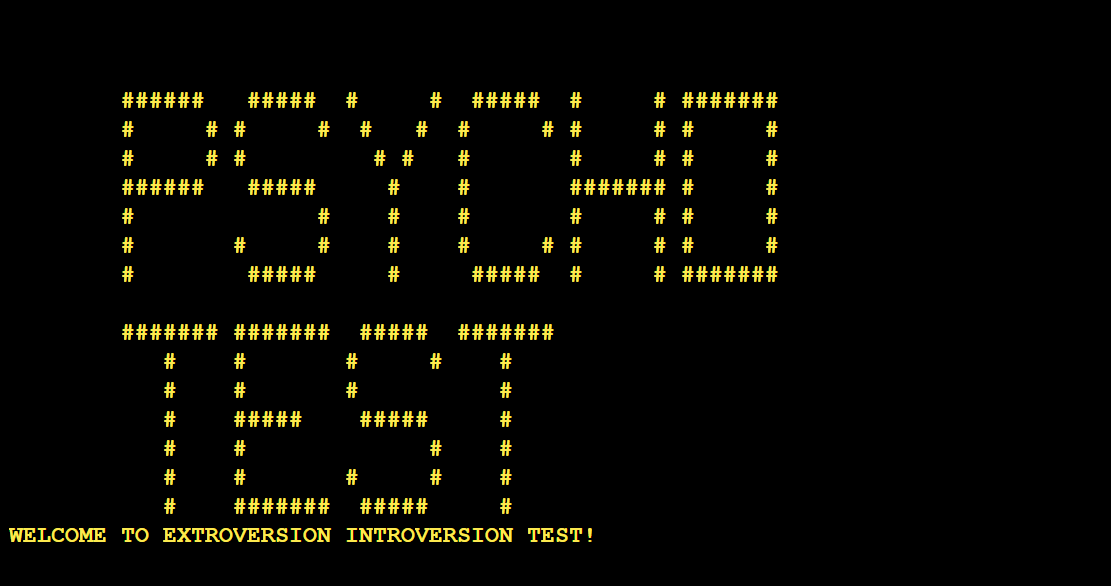
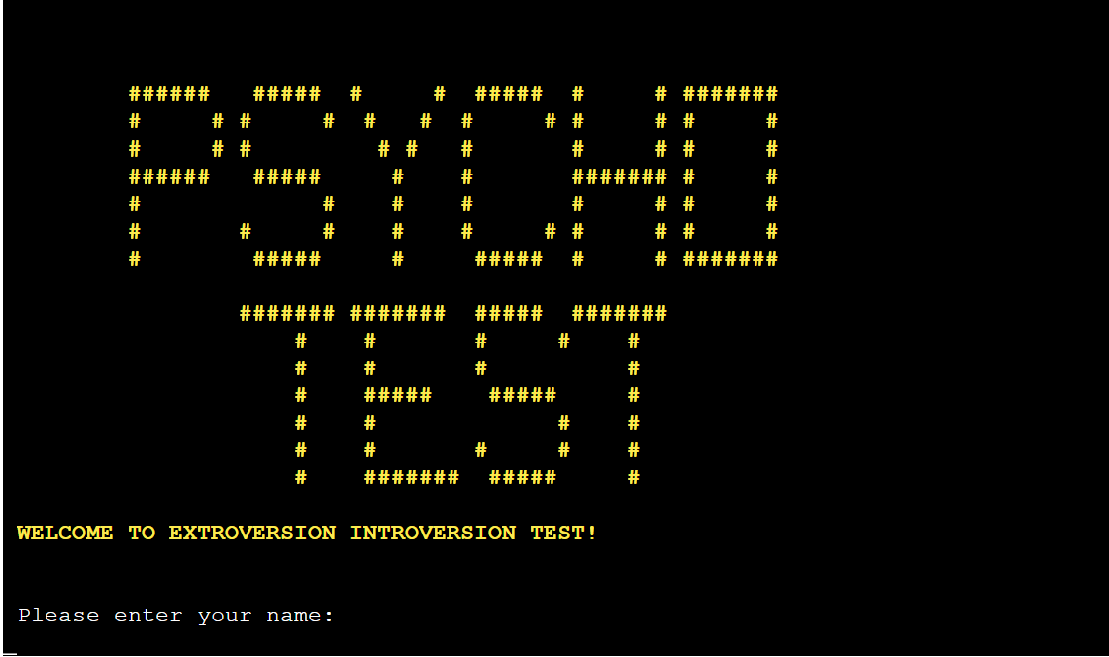
docs: edit readme technologies used section

diff --git a/README.md b/README.md
@@ -21,7 +21,8 @@
     - <a href="#database">Writing to Database</a>
     - <a href="#class1">Questions_Answers Class</a>
     - <a href="#class2">User Class</a>
-- <a href="#technologies">Technologies Used</a>
+- <a href="#technologies">Technologies and Libraries Used</a>
+    - <a href="#google">Google API Setup</a>
 - <a href="#testing">Testing</a>
     - <a href="#validation">PEP8 Validation</a>
     - <a href="#manual_testing">Manual Testing</a>
@@ -67,6 +68,7 @@ The below flowchart shows the order in which actions are taken and how the progr
 ## <div id="features">Features</div>
 ### <div id="message">Introductory Message</div>
 When the user runs the system, they will be greeted with a logo and a welcome message.
+![screenshot](documentation/screenshot.png)
 
 ### <div id="validation">Data Validation</div>
 ![](documentation/screenshot_test2.png)
@@ -86,6 +88,10 @@ If user reaches -4 or 4 points, the program switches to specific questions from 
 ### <div id="result">Test Result</div>
 ![](documentation/result.png)
 The final result of the test is determined by the score: if the score is less than -3, then the result is an introverted user. If the score is greater than 3, then the result is the extrovert user. If the score is between -3 and 3, the user is ambivert.
+
+At the end of the test, or when the user presses Q (quit), a banner appears "Thank you".
+![](documentation/screenshot_test4.png)
+
 
 ### <div id="colours">Colours</div>
 I wanted to achieve a bright, eye-catching look, stick to the color theme as much as possible, and not use too many colors.
@@ -116,20 +122,84 @@ Each test table consists of questions and answer keys.
     - question_used: a flag that indicates whether the question has already been used in the test
 
 ### <div id="class2">User Class</div>
-- A User Class was created to store the username, email, and flag for the returning user.
+- A User Class was created to contain the username, email, and flag for the returning user.
 - A User Class has the following attributes:
     - name: username
     - emails: user email
     - exists: a flag indicating if the user has already passed the test
 
-## <div id="technologies">Technologies Used</div>
+## <div id="technologies">Technologies and Libraries Used</div>
 - The application was developed with Python
     - Python Packages:
+        - [gspread](https://docs.gspread.org/en/v5.9.0/) allows communication with Google Sheets.
         - [Colorama](https://pypi.org/project/colorama/) to print colored terminal text
+        - sys.stdout.flush() used to temporarily store data in a buffer memory before it gets written to terminal
         - Platform module and OS Module to check the system/OS name and interact with the underlying operating system
 - [Heroku](https://www.heroku.com/platform) was used for deployment
 - [Flowchart Maker and Online Diagram Software](https://app.diagrams.net/) was used to generate the flowchart
+- [Google Worksheet](https://www.google.co.uk/sheets/about/) used as database.
 - [VS Code](https://code.visualstudio.com/) was used for development
+
+### <div id="google">Google API Setup</div>
+The value of using the Google API Sheets library is that it's built on HTTP and JSON, so any standard HTTP client can send requests to it and parse the responses. In other words, our project can feed data to the Google Sheet using an API and we can see the result of that data in a format suitable for Google Sheets.
+
+The reason for using Google Sheets for this project is to access the questionnaire and store and access user data.
+
+<details>
+<summary>Setting Up the Google API</summary>
+
+    1. Create a Google account.
+    2. Create a Google Sheet and name the file. Preferably matching your GitHub repository name.
+    3. Then visit Google Cloud Platform
+    4. Next to the Google Cloud Platform menu, click "Select a project" and then select "New project".
+    5. Then give your project a name. Preferably matching your GitHub repository and Google Sheets doc name.
+    Then click "Create".
+    6. Then click "Select project" again. But this time select the name
+    of the project you just created.
+    7. Now you're on your project dashboard, ensure the side menu is open
+    and select "API & Services" and then "Library".
+    8. First search for "Google Drive" in the search bar. Click on the API at the top and click "Enable".
+    9. Now you will need to create credentials to access the Google Sheets. Click "Create credentials".
+    10. In the form, under "Which API are you using?", please select "Google Drive API".
+    11. For "What data will you be accessing?", please select "Application Data".
+    12. For the "Are you planning to use this API with Compute Engine, Kubernetes Engine,
+    App Engine, or Cloud Functions?" question, please select "No, I'm not using them".
+    13. Click "Next", then "Done".
+    14. Now enter a Service account name. Preferably matching your
+    Google Cloud project name if available.
+    15. Then go to "Grant this service account access to project".
+    16. In the Role dropdown box, select "Basic", then "Editor". Press "Continue".
+    17. "Grant users access to this service account" can be left blank. Click "Done".
+    18. On the next page, click on the service account that has just been created.
+    19. Now click on the "Keys" tab.
+    20. Click the "Add Key" dropdown button and select "Create New Key".
+    21. Select "JSON" and then click "Create". This will trigger the .json file
+    with your API credentials in it to download to your machine.
+    22. Now, click on the main burger menu, select
+    "API & Services" and select "Library".
+    23. In the search bar, enter "Google Sheets" and select the "Google Sheets API" option and click "Enable".
+</details>
+
+<details>
+<summary>Link your Google API Credentials to Gitpod Workspace</summary>
+
+    1. Drag and drop the .json file from your downloads folder into your Gitpod workspace.
+    2. Rename the file to "creds.json"
+    3. Now open the creds.json file. Locate the "client_email" line and copy the email address next to it, without the quotes.
+    4. Then navigate to your Google Sheets file and open the "Share" button.
+    5. Paste in the client email address and make sure "Editor" is selected, untick "Notify People" and then click "Share".
+
+Given that your creds.json file contains sensitive information. Make sure to add this file to your gitignore file, to prevent this data being committed or sent to GitHub.
+
+To check that your creds.json file won't be committed, follow the below steps:
+
+    1. In your terminal type git add . and press enter.
+    2. Now type in git status and press enter.
+    3. If the creds.json file is not listed in the staging area, you are safe to commit your changes.
+
+</details>
+
+
 
 ## <div id="testing">Testing</div>
 ### <div id="manual_testing">Manual Testing</div>
@@ -145,7 +215,7 @@ Each test table consists of questions and answer keys.
 
 
 ### <div id="validation">PEP8 Validation</div>
-The code for run.py was passed through a [PEP8 validator](https://pep8ci.herokuapp.com/) with no issues present.
+The code for run<span>.</span>py was passed through a [PEP8 validator](https://pep8ci.herokuapp.com/) with no issues present.
 ![PEP8](documentation/validator.png)
 
 
